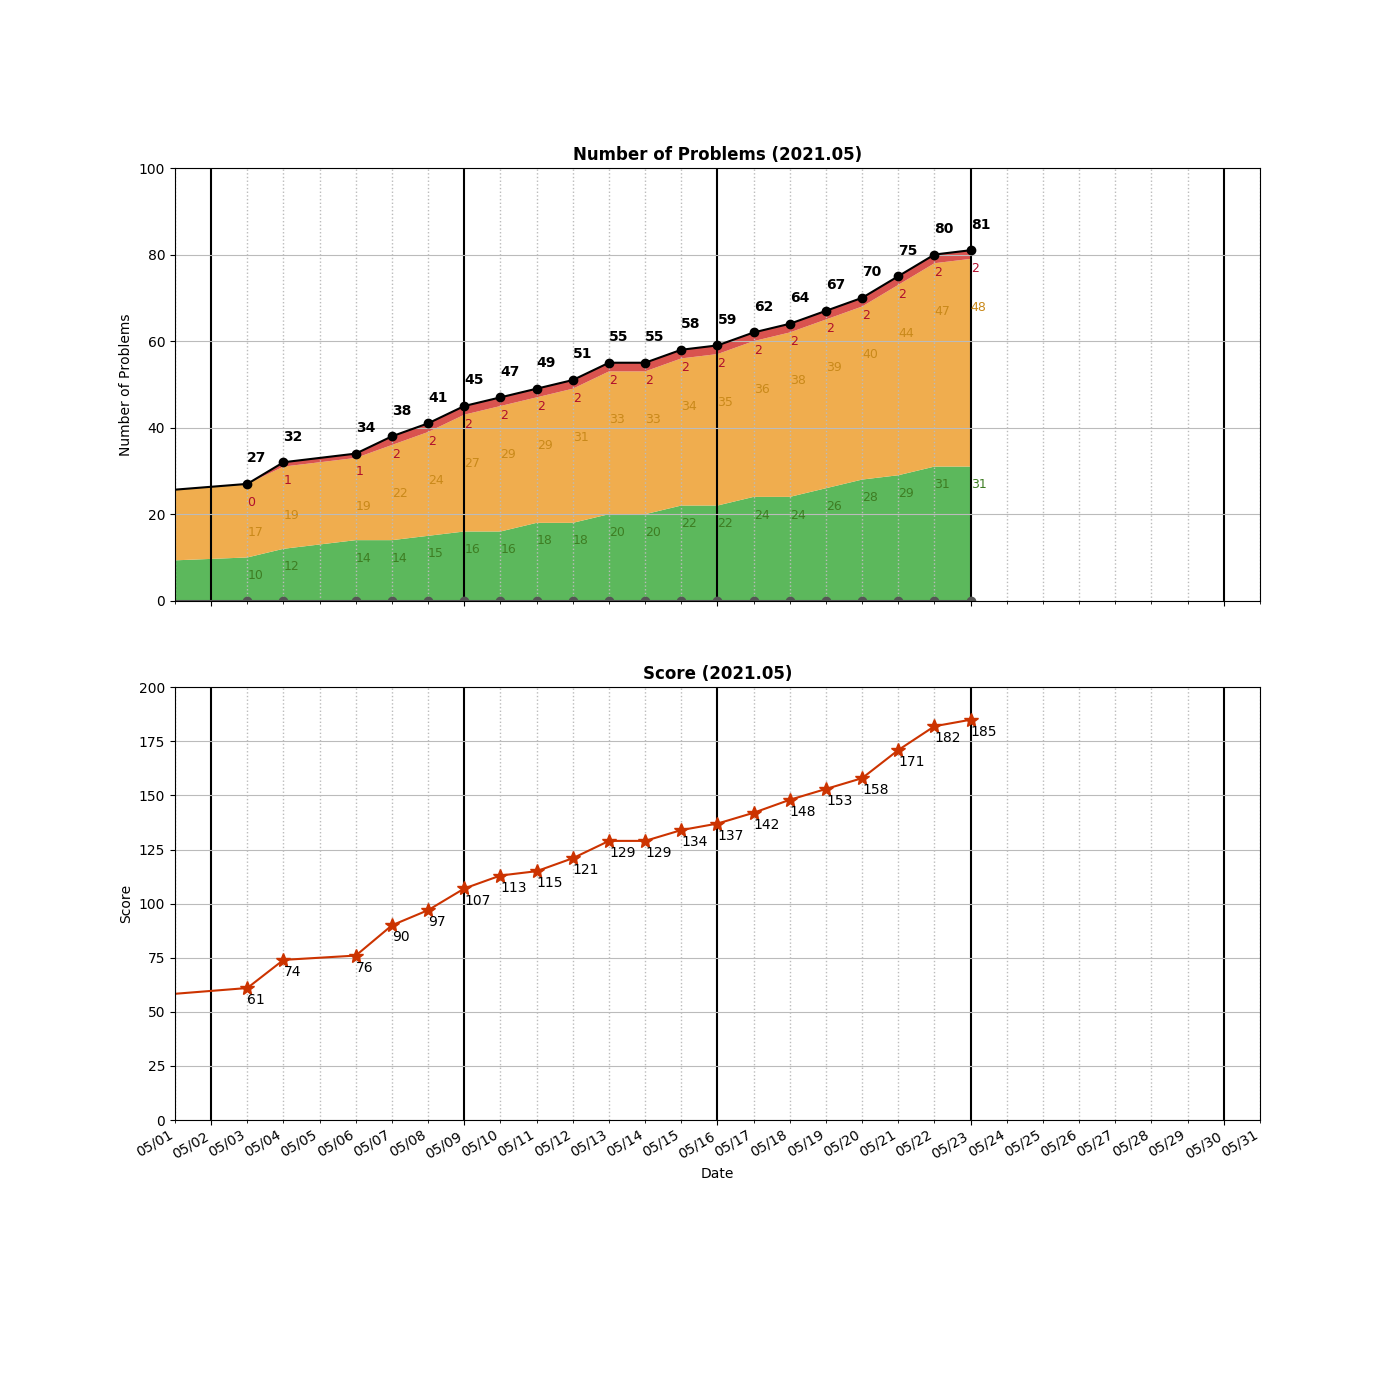
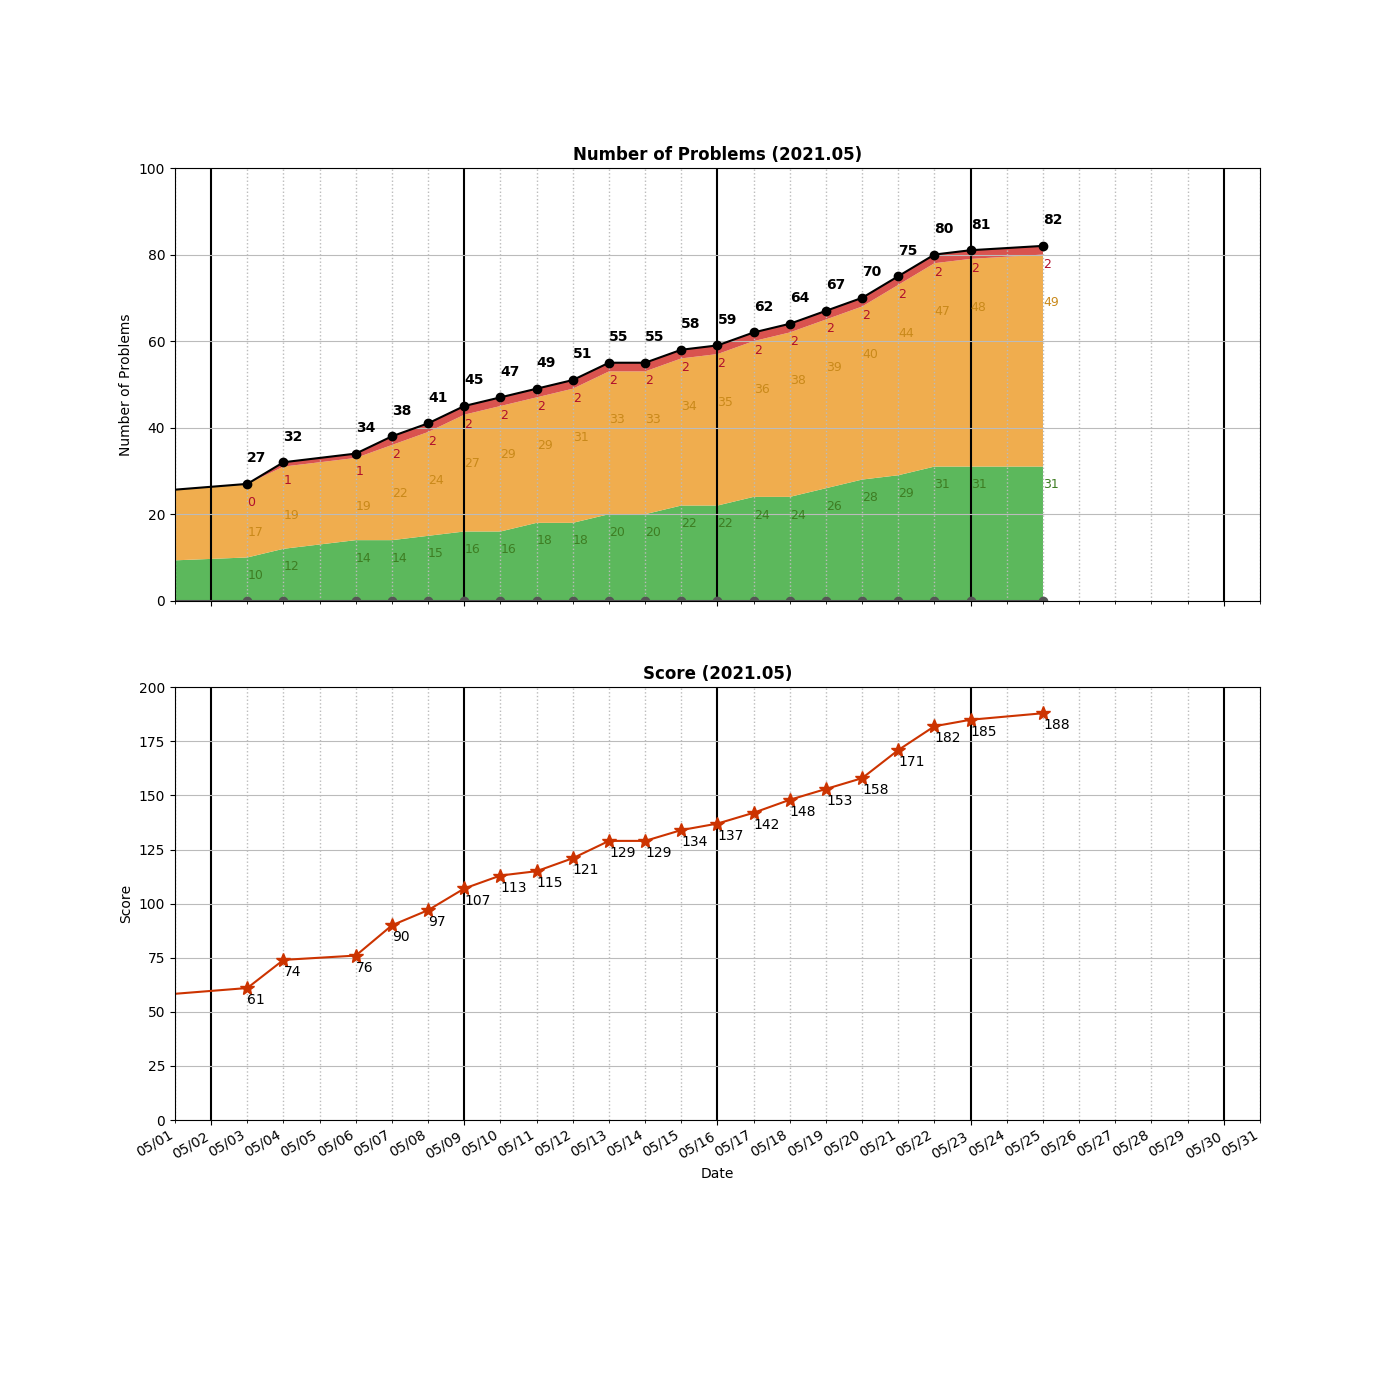
Added __0695__Max Area of Island.py

Changed region(s): [[0.6757, 0.1536, 0.7679, 0.43], [0.7371, 0.4914, 0.7679, 0.5221]]

diff --git a/algo/DFS/__0695__Max Area of Island.py b/algo/DFS/__0695__Max Area of Island.py
@@ -1,0 +1,31 @@
+class Solution:
+    
+    # DFS [O(n2), 30%]
+    def maxAreaOfIsland(self, grid: List[List[int]]) -> int:
+        if not grid:
+            return 0
+        
+        maxSize = 0
+        for i in range(len(grid)):
+            for j in range(len(grid[0])):
+                if grid[i][j] == 1:
+                    maxSize = max(maxSize, self.dfs(grid, i, j))
+        return maxSize
+                    
+    def dfs(self, grid, i, j):
+        if i < 0 or i >= len(grid):
+            return 0
+        if j < 0 or j >= len(grid[0]):
+            return 0
+        if grid[i][j] == 0:
+            return 0
+        
+        grid[i][j] = 0
+        size = 1 
+        
+        dirs = [(1, 0), (0, 1), (-1, 0), (0, -1)]
+        for d in dirs:
+            nextI = i + d[0]
+            nextJ = j + d[1]
+            size += self.dfs(grid, nextI, nextJ)
+        return size

diff --git a/README.md b/README.md
@@ -35,7 +35,8 @@ algo
 │   ├── __0112__Path\ Sum.py
 │   ├── __0113__Path\ Sum\ II.py
 │   ├── __0200__Number\ of\ Islands.py
-│   └── __0694__Number\ of\ Distinct\ Islands.py
+│   ├── __0694__Number\ of\ Distinct\ Islands.py
+│   └── __0695__Max\ Area\ of\ Island.py
 ├── DP
 │   ├── __0070__Climbing\ Stairs.py
 │   ├── __0121__Best\ Time\ to\ Buy\ and\ Sell\ Stock.py
@@ -97,7 +98,7 @@ algo
     ├── __0969__Pancake\ Sorting.py
     └── __1099__Two\ Sum\ Less\ Than\ K.py
 
-15 directories, 81 files
+15 directories, 82 files
 
 =====================================
 ============= Local Repo ============
@@ -175,6 +176,7 @@ __0617__Merge Two Binary Trees.py
 __0658__Find K Closest Elements.py
 __0680__Valid Palindrome II.py
 __0694__Number of Distinct Islands.py
+__0695__Max Area of Island.py
 __0704__Binary Search.py
 __0706__Design HashMap.py
 __0863__All Nodes Distance K in Binary Tree.py
@@ -184,7 +186,7 @@ __0922__Sort Array By Parity II.py
 __0969__Pancake Sorting.py
 __1099__Two Sum Less Than K.py
 =====================================
-Num of Python Practice:  81
+Num of Python Practice:  82
 
 
 =====================================
@@ -263,6 +265,7 @@ Num of Python Practice:  81
  0658 Find K Closest Elements
  0680 Valid Palindrome II
  0694 Number of Distinct Islands
+ 0695 Max Area of Island
  0704 Binary Search
  0706 Design HashMap
  0863 All Nodes Distance K in Binary Tree
@@ -272,11 +275,11 @@ Num of Python Practice:  81
  0969 Pancake Sorting
  1099 Two Sum Less Than K
 =====================================
-Solved / Total (Easy)  :   31 /  491
-Solved / Total (Medium):   48 /  987
-Solved / Total (Hard)  :    2 /  394
-Solved / Total (All)   :   81 / 1872
-Total Score            :  185
+Solved / Total (Easy)  :   31 /  493
+Solved / Total (Medium):   49 /  987
+Solved / Total (Hard)  :    2 /  393
+Solved / Total (All)   :   82 / 1873
+Total Score            :  188
 =====================================
 
 ```
